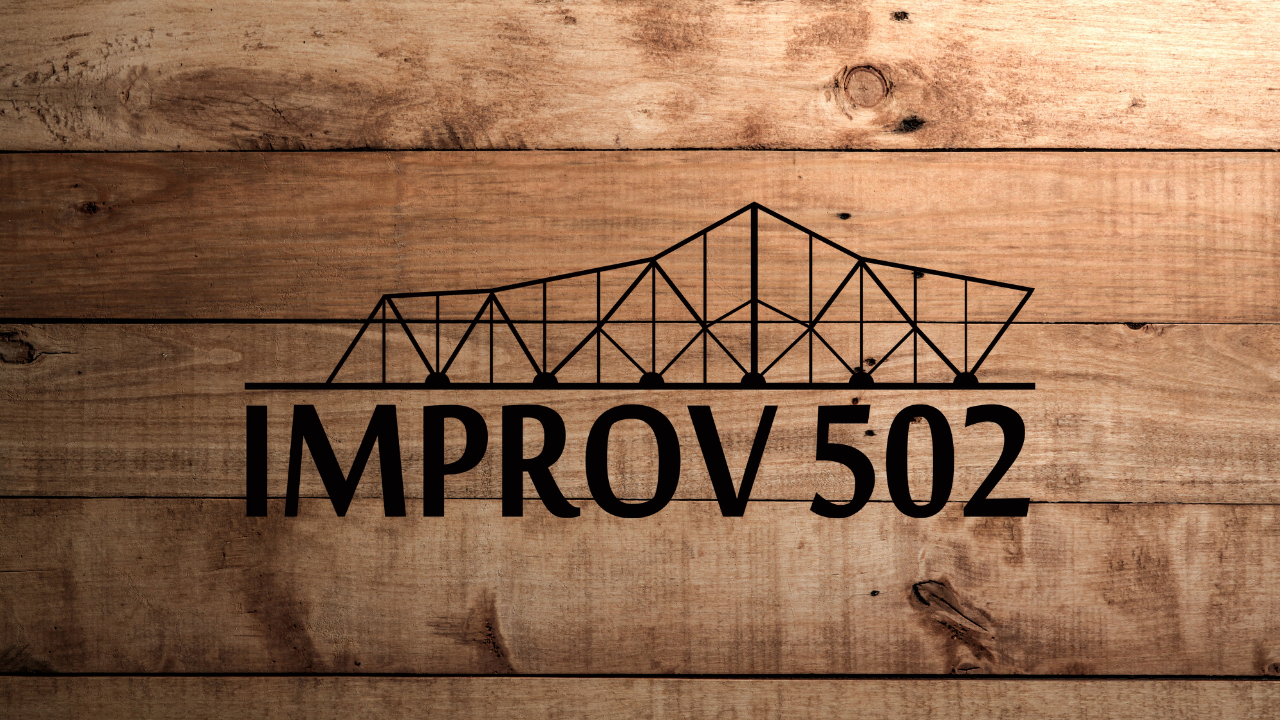
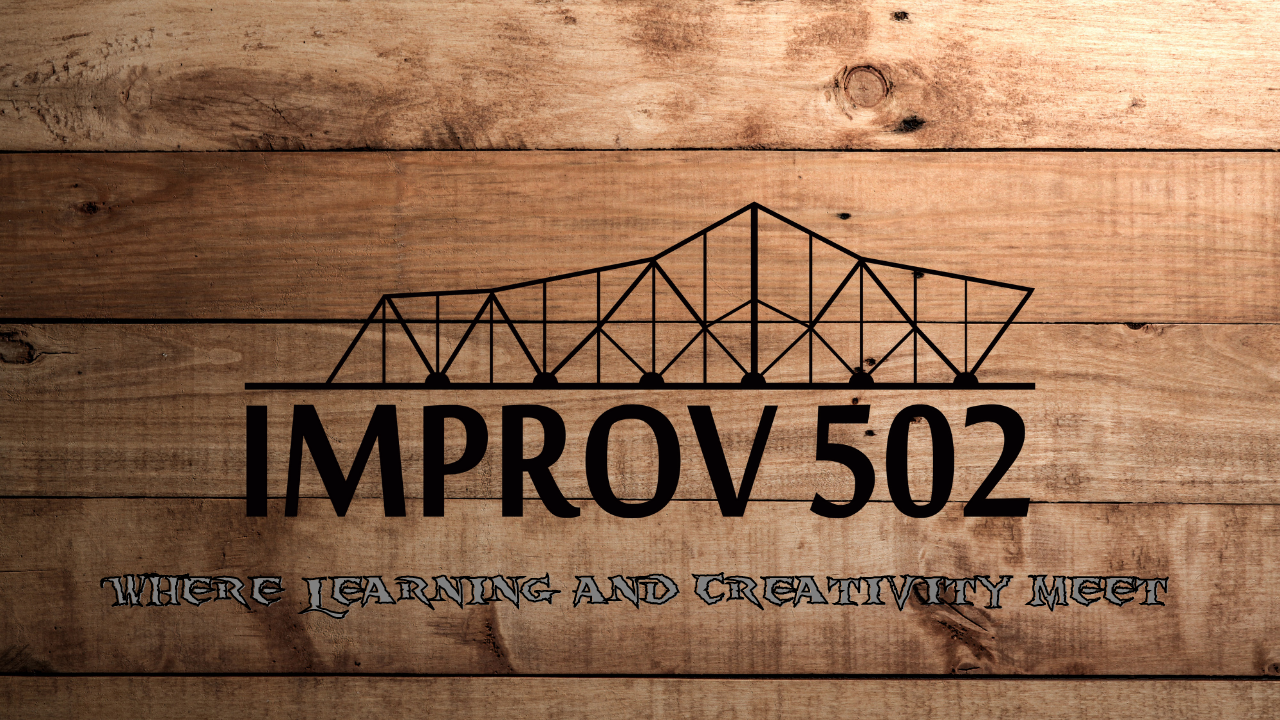
Updated background image

Changed region(s): [[0.0625, 0.7944, 0.9375, 0.8556]]

diff --git a/site.css b/site.css
@@ -45,7 +45,7 @@ a:hover{
 }
 
 .hero .background-image{
-    background-image: url(images/Background.png);
+    background-image: url(Images/Background.png);
    position:fixed;
     justify-content: center;
     top:0;

diff --git a/index.html b/index.html
@@ -22,7 +22,6 @@
     </header>
     <section id="hero" class="hero">
         <div class="background-image"></div>
-         <h1>Where Learning and Creativity Meet!</h1>
         
        
      </section>
